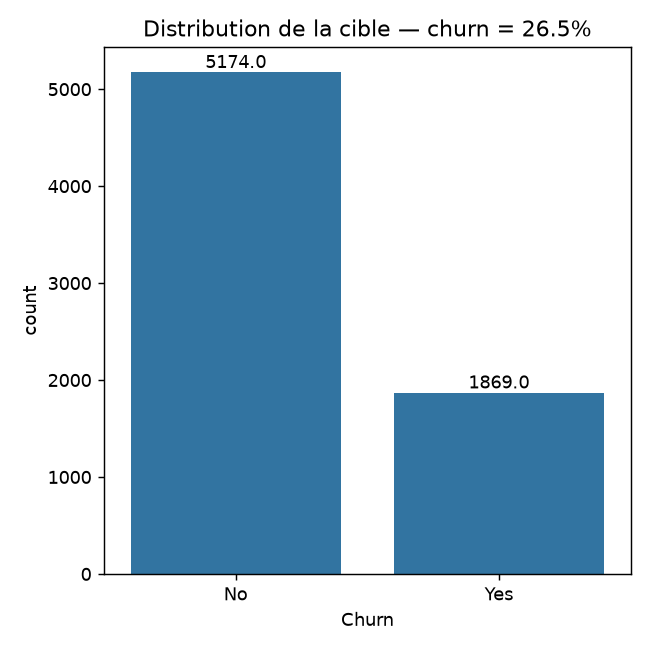
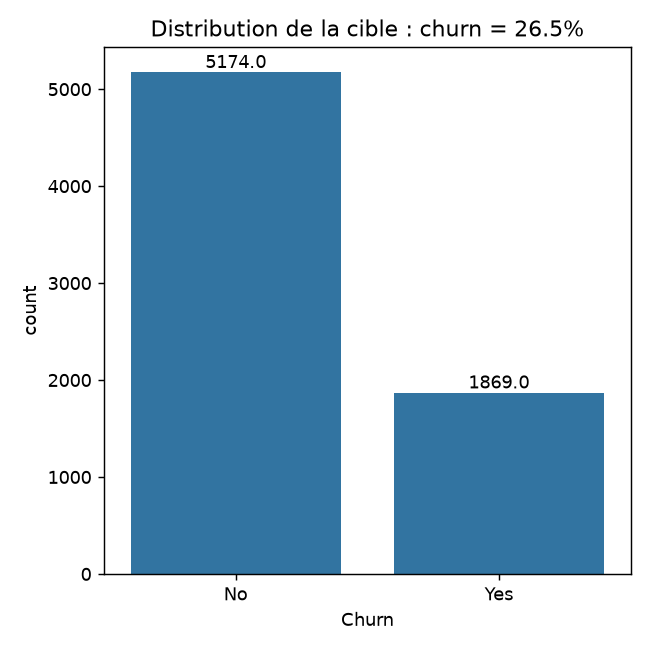
refactor(eda): ajoute compute_vif dans src.metrics et diagnostic VIF en nb01

Changed region(s): [[0.2154, 0.0308, 0.9231, 0.0615]]

diff --git a/src/metrics.py b/src/metrics.py
@@ -2,6 +2,7 @@
 import numpy as np
 import pandas as pd
 from sklearn.pipeline import Pipeline
+from sklearn.linear_model import LinearRegression
 from sklearn.metrics import (
     roc_auc_score, average_precision_score,
     confusion_matrix, classification_report,
@@ -108,3 +109,25 @@ def find_optimal_threshold(
             "gain": gain,
         })
     return pd.DataFrame(records)
+
+def compute_vif(frame: pd.DataFrame) -> pd.Series:
+    """Compute the Variance Inflation Factor for each column.
+
+    VIF_j = 1 / (1 - R²_j), where R²_j is the coefficient of
+    determination obtained by regressing column j on all the others.
+    A VIF above 5-10 signals problematic multicollinearity.
+
+    Args:
+        frame: DataFrame of numeric features without missing values.
+
+    Returns:
+        Series of VIF values indexed by column name, sorted descending.
+    """
+    vif = {}
+    cols = list(frame.columns)
+    for col in cols:
+        others = [c for c in cols if c != col]
+        model = LinearRegression().fit(frame.loc[:, others], frame.loc[:, col])
+        r2 = model.score(frame.loc[:, others], frame.loc[:, col])
+        vif[col] = 1.0 / (1.0 - r2) if r2 < 1.0 else np.inf
+    return pd.Series(vif).sort_values(ascending=False)